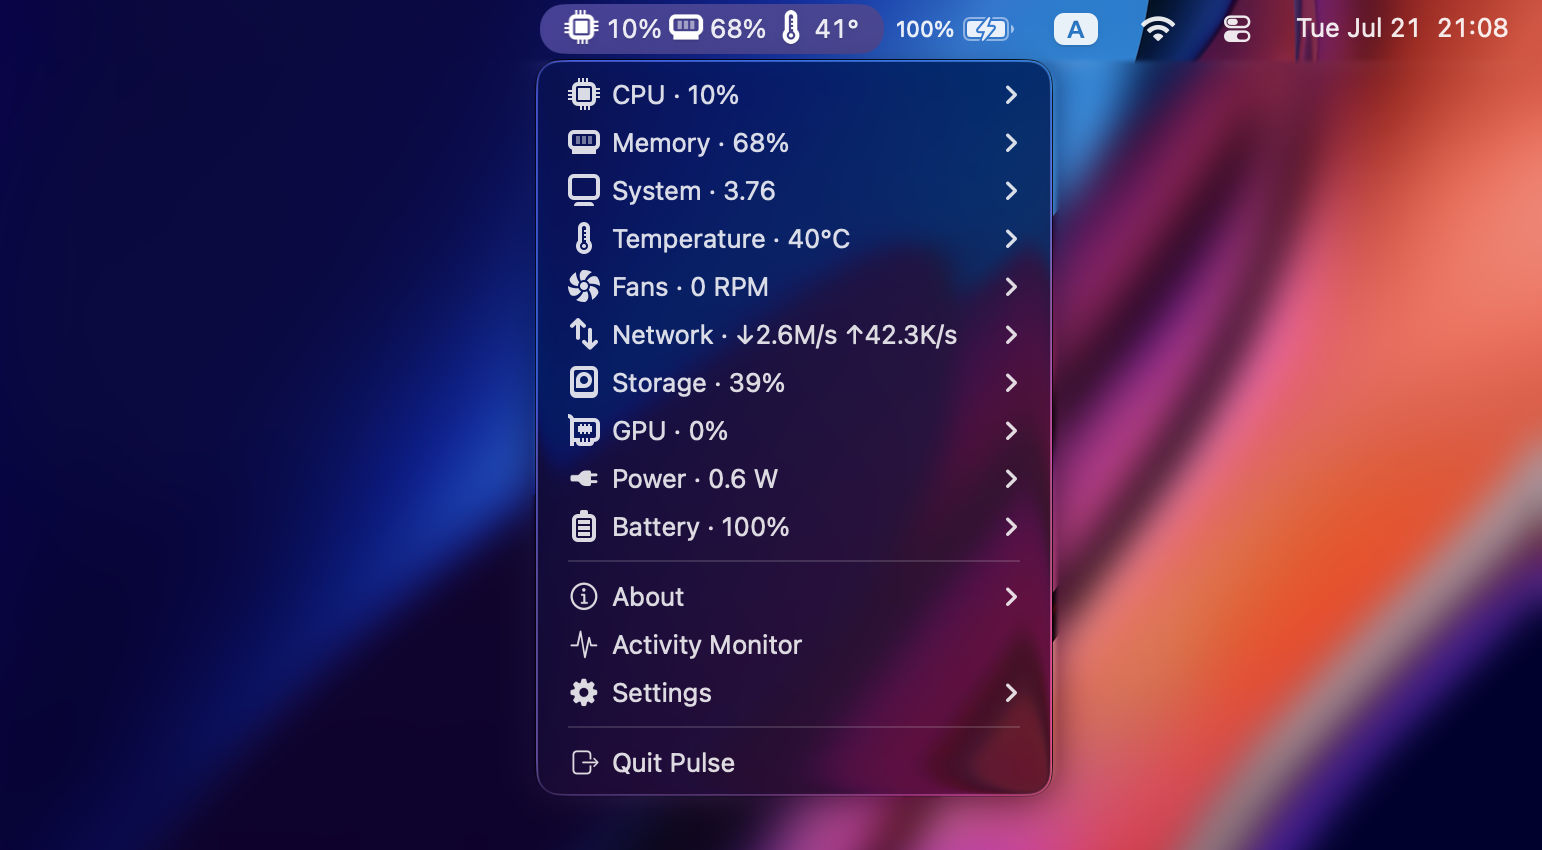
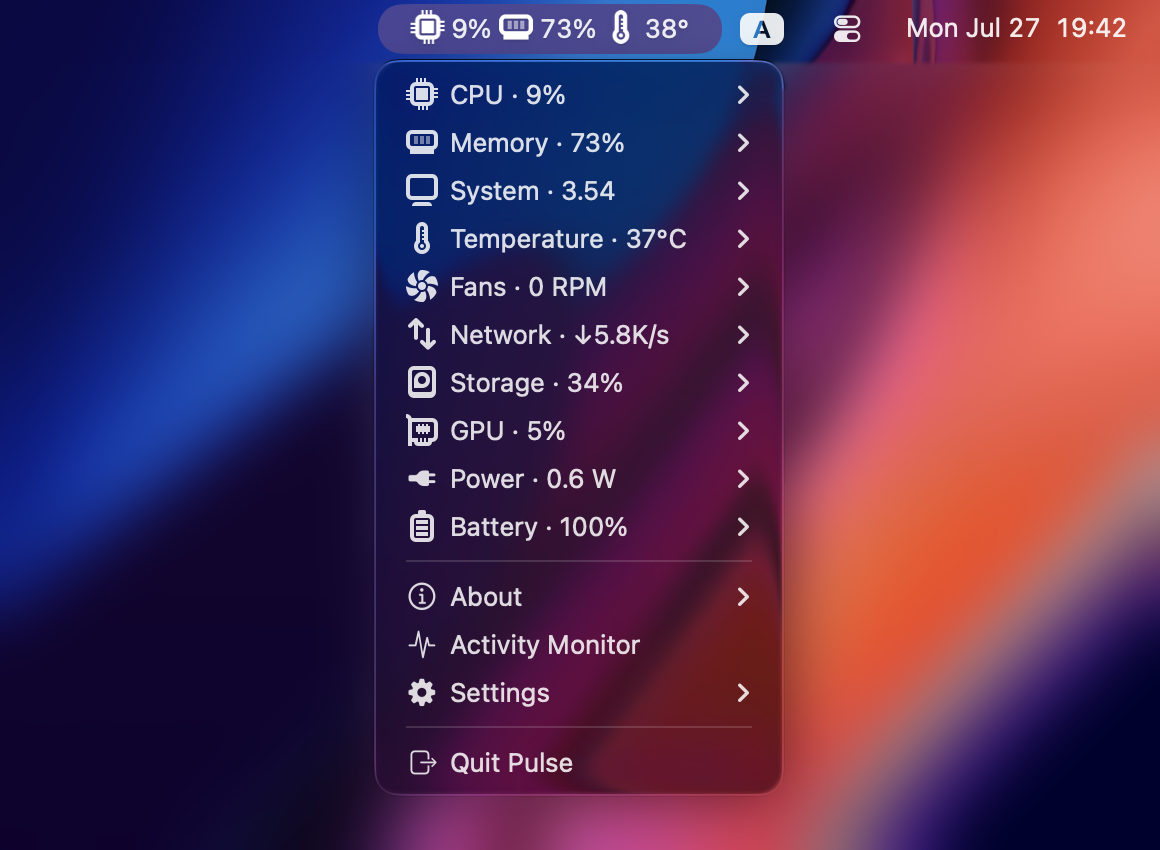
Show a single value in the Network group header (#18)
## What

The Network group header in the dropdown showed two values — `Network ·
↓1.2K/s ↑300B/s`. It was the only group with a two-value aggregate;
every other group shows a single scalar. Now it shows just the download
rate: `Network · ↓1.2K/s`.

## Why

Feature parity with Vitals: upstream promotes only the rx (download)
total to the group label (`values.js`, the `network-rx-group`
pseudo-sensor), while upload is only visible as a row inside the
expanded submenu. The `↓` prefix is kept so the single value is
unambiguous and matches the existing `net.down` bar style.

The Download/Upload submenu rows, per-interface rows, and the `-once`
CLI output are unchanged.

## Testing

- New `TestNetworkAggregate` asserts the exact header string for nil,
active, and idle frames.
- `make test`, `make lint` — clean; `make once` on Mac17,8 (M5 Pro).

---------

diff --git a/internal/controller/tray/registry_test.go b/internal/controller/tray/registry_test.go
@@ -96,6 +96,42 @@ func TestGroupAggregates(t *testing.T) {
 	}
 }
 
+// The Network header shows a single value — the download rate, like Vitals
+// (upstream promotes only the rx total to the group label; tx stays a
+// submenu row).
+func TestNetworkAggregate(t *testing.T) {
+	t.Parallel()
+
+	tests := []struct {
+		name string
+		snap entity.Snapshot
+		want string
+	}{
+		{name: "no net source", snap: entity.Snapshot{}, want: "—"},
+		{name: "sample frame", snap: sampleSnapshot(), want: "↓1.2K/s"},
+		{name: "idle frame", snap: fallbackSnapshot(), want: "↓0B/s"},
+	}
+	for _, tt := range tests {
+		t.Run(tt.name, func(t *testing.T) {
+			t.Parallel()
+
+			for _, g := range buildGroups(entity.HWInfo{NumCores: 2}, fullCaps()) {
+				if g.label != "Network" {
+					continue
+				}
+
+				if got := g.aggregate(tt.snap, config.Config{}); got != tt.want {
+					t.Errorf("aggregate = %q, want %q", got, tt.want)
+				}
+
+				return
+			}
+
+			t.Fatal("Network group not found")
+		})
+	}
+}
+
 // The bar prefix matrix: text mode uses the tag, emoji mode keeps the
 // qualifier next to the group emoji, gnome mode swaps to icon keys and
 // drops the qualifier when the icon itself is metric-specific.

diff --git a/internal/controller/tray/registry.go b/internal/controller/tray/registry.go
@@ -892,7 +892,7 @@ func netGroup(ifaces []string) group { //nolint:cyclop,funlen,gocognit,gocyclo /
 				return "—"
 			}
 
-			return "↓" + format.SpeedShort(s.Net.Down, c.HigherPrecision) + " ↑" + format.SpeedShort(s.Net.Up, c.HigherPrecision)
+			return "↓" + format.SpeedShort(s.Net.Down, c.HigherPrecision)
 		},
 		metrics: []metric{
 			{
